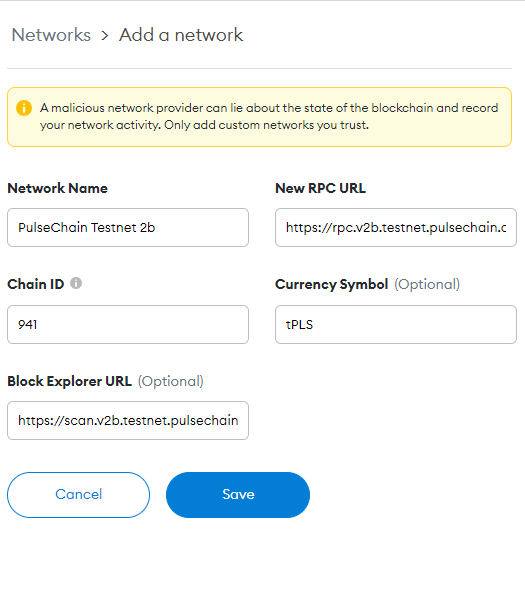
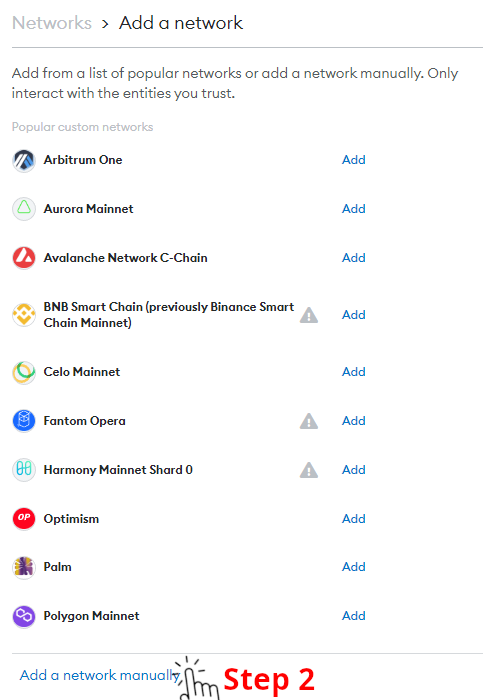
Update documentation for Testnet-V3

diff --git a/README.md b/README.md
@@ -1,4 +1,4 @@
-# PulseChain Testnet
+# PulseChain Testnet V3
 
 The PulseChain Testnet is up and running. This document will guide you through connecting Metamask to the network and bootstrapping a PulseChain node of your own.
 
@@ -6,78 +6,147 @@ The PulseChain Testnet is up and running. This document will guide you through c
 
 > **Disclaimer 2**: The state of this network may be reset on occasion, and nothing should be considered permanent after the fork block. We will communicate ahead of time when these resets are planned.
 
-### Version 2b
+### **Version 3** 🎉
 
-This version of the PulseChain Testnet brings the following enhancements:
-- ValidatorRotation functionality in the staking system contract has been optimized
-- Includes a **beta release** of the sacrifice credit allocations
-- Test run **beta release** of the AMM bot for rebalancing (UniswapV1, UniswapV2, and SushiSwap rebalanced)
+This iteration of PulseChain is an entirely new implementation and represents a hard departure from prior testnets. 
+
+The new implementation is based on Ethereum's POS model and implements an entirely new beacon chain while forking the Ethereum execution chain and state.
+> 💭 *Previous versions were based on the POSA (proof of staked authority) model.*
+
+**This version of the PulseChain Testnet brings the following enhancements:**
+-  A revamped consensus model based on Ethereum POS.
+- Decreased slot time compared with Ethereum `10s vs 12s (a ~17% speedup)`.
+- Validator reward burning (= more deflationary pressure).
+    + 25% fee burn + additional burn to compensate for reduced slot time.
+- **Multi-client support:**
+    + Consensus Clients: [Prysm-Pulse](https://gitlab.com/pulsechaincom/prysm-pulse) and [Lighthouse-Pulse](https://gitlab.com/pulsechaincom/lighthouse-pulse).
+    + Execution clients: [Go-Pulse](https://gitlab.com/pulsechaincom/go-pulse) and [Erigon-Pulse](https://gitlab.com/pulsechaincom/erigon-pulse).
+- Sacrifice credits have been written.
+- Ethereum Staker/Validator deposits have been refunded.
+- The AMM bot has been executed to rebalance various automated market-makers.
+
+## Exploring the PulseChain Testnet
+
+Public block and beacon explorers are available at the URLs below:
+
+- [PulseChain Block Explorer](https://scan.v3.testnet.pulsechain.com)
+- [PulseChain Beacon Explorer](https://beacon.v3.testnet.pulsechain.com)
+
+> The PulseChain team welcomes the development 3rd-party explorers!
 
 ## Connecting Metamask
 
 Follow these instructions to manually add the new Testnet to your Metamask plugin. A button will be available in the future to do this automatically.
 
-**1. Click the Networks dropdown and select "Custom Network"**
+**1. Click the Networks dropdown and select `Add network`** ([Screenshot](images/step1.png)).
 
-**2. Enter the following information and save (all values below are new):**
-- Network Name: `PulseChain Testnet 2b`
-- New RPC URL: `https://rpc.v2b.testnet.pulsechain.com`
-- Chain ID: `941`
+**2. At the bottom of the network list, click `Add a network manually`** ([Screenshot](images/step2.png)).
+
+**3. Enter the following information into the form and `save`:** ([Screenshot](images/step3.png)).
+- Network Name: `PulseChain Testnet-V3`
+- New RPC URL: `https://rpc.v3.testnet.pulsechain.com`
+- Chain ID: `942`
 - Currency Symbol: `tPLS`
-- Block Explorer URL: `https://scan.v2b.testnet.pulsechain.com`
+- Block explorer URL: `https://scan.v3.testnet.pulsechain.com`
 
-|   Step 1    |   Step 2    |
-| ----------- | ----------- |
-| ![Metamask step1](images/step1.png) | ![Metamask step2](images/step2.png) |
-
-**Congratulations**! You are now connected to the PulseChain Testnet. Existing ethereum accounts that had balances as of block `14,360,999` (*Mar-10-2022 07:29:19 PM +UTC*) will have the equivalent on balance on the PulseChain Testnet in addition to the **beta release** of credits awarded from the sacrifice phase.
+**Congratulations**! You are now connected to the PulseChain Testnet-V3. Existing ethereum accounts that had balances as of block `16,492,699` (*Jan-26-2023 06:11:35 PM +UTC*) will have the equivalent balance on the PulseChain Testnet in addition to the **beta release** of credits from the sacrifice phase as well as any ethereum staking deposit refunds.
 
 ## Getting tPLS to use on the PulseChain Testnet
 
 To get tPLS you can use the tPLS faucet.
 
-1. Navigate to the tPLS faucet https://faucet.v2b.testnet.pulsechain.com/
+1. Navigate to the tPLS faucet https://faucet.v3.testnet.pulsechain.com/
 2. Connect your Metamask wallet by clicking on the button.
 3. Enter the address you want to send tPLS to and click the `Request` button.
 4. Wait up to 60 seconds to receive your tPLS.
 
+## Advanced Users: Running a PulseChain Node
 
-## Connecting a PulseChain Node
+If you have an archive node running on Ethereum Mainnet or PulseChain Testnet-V2B, you can save some sync time by rolling back and re-using your existing blockchain DB. See [Using An Existing Blockchain DB](#experts-only-using-an-existing-blockchain-db) below.
 
-If you were previously running a Testnet V2 node, you can re-use your existing blockchain database by rolling back the blockchain. See [Using An Existing Blockchain DB](#using-an-existing-blockchain-db) below.
-
-> **Warning**: The PulseChain Testnet includes **all** of the Ethereum mainnet state up to block `14,360,999`. This means that the system requirements for running a node will be high, particularly the storage requirements. You should only run your own testnet node if needed for development purposes, etc...
+> **Warning**: The PulseChain Testnet includes **all** of the Ethereum mainnet state up to block `16,492,699`. This means that the system requirements for running a node will be high, particularly the storage requirements. You should only run your own testnet node if needed for development purposes, etc...
 
 HARDWARE
-- You will need at least **800 GB** of free storage to store the synchronized chain.
-- At least 4 cores and 8GB of RAM are recommended. 
+- A fast CPU with 4+ cores
+- 16 GB+ of RAM
+- 1 TB+ free storage (SSD) for a Full Node
+- 15 TB+ free storage (SSD) for an Archive Node
 
 SOFTWARE
 - [Docker](https://docs.docker.com/get-docker/) is recommended, and the commands below will tailored to running a dockerized node. By building and running the node in docker, we eliminate any environmental differences like the local golang version or the host OS.
 - If you prefer, you can compile and run the executable directly, but you will need to tweak the commands below.
 
 
-> **NOTE**: All commands below assume that you want to store all chain data in a local `/blockchain` directory (must have at least **800GB** free space).
+> **NOTE**: All commands below assume that you want to store all chain data in a local `/blockchain` directory (must have at least **1TB** free space).
 >
-> If needed, you can modify the commands to mount a different directory in the docker container. To do so, you will change the **absolute path** on the **left side** of the colon `:`, e.g., `docker run -v /path/to/my/dir:/blockchain ...`
+> If needed, you can modify the commands to mount a different directory in the docker container. To do so, you will change the **absolute path** on the **left side** of the colon `:`, e.g., `docker run -v /path/to/my/dir/:/blockchain ...`
 > 
 > For more information see the Docker [run command reference](https://docs.docker.com/engine/reference/commandline/run/#mount-volume--v---read-only).
 
 ### 1. Prepare the Blockchain Directory
 
-First, ensure that the intended blockchain datadir has at least 800GB of free space. The directory should be empty.
+First, ensure that the intended blockchain datadir has at least 1TB of free space. The directory should be empty.
 
-### 2. Start the Pulse Node
+### 2. Generate JWT Secret
 
-Once your blockchain directory is ready, you can start the node and connect to the network by providing the `--pulsechain-testnet` flag.
+The HTTP connection between your beacon node and execution node needs to be authenticated using a [JWT token](https://jwt.io/). We need to save this file in the blockchain directory, to be read by both clients. There are several ways to generate this JWT token:
 
+- Use a utility like OpenSSL to create the token via command: `openssl rand -hex 32 | tr -d "\n" > "/blockchain/jwt.hex"`.
+- Use an online generator like [this](https://seanwasere.com/generate-random-hex/). Copy and paste this value into a `/blockchain/jwt.hex` file.
+
+### 3. Start the PulseChain Execution Client
+
+Once your blockchain directory is ready, you can start the execution client and connect to the network by providing the `pulsechain-testnet` flag. You can run either Go-Pulse (recommended) **OR** Erigon-Pulse:
+
+Option 1: [Go-Pulse](https://gitlab.com/pulsechaincom/go-pulse)
 ```shell
-docker run -v /blockchain:/blockchain -P registry.gitlab.com/pulsechaincom/go-pulse --datadir=/blockchain --pulsechain-testnet
+docker run --network=host -v /blockchain:/blockchain registry.gitlab.com/pulsechaincom/go-pulse \
+--pulsechain-testnet \
+--authrpc.jwtsecret=/blockchain/jwt.hex \
+--datadir=/blockchain/execution
 ```
 
-## Using An Existing Blockchain DB
+Option 2: [Erigon-Pulse](https://gitlab.com/pulsechaincom/erigon-pulse)
+```shell
+docker run --network=host -v /blockchain:/blockchain registry.gitlab.com/pulsechaincom/erigon-pulse \
+--chain=pulsechain-testnet \
+--authrpc.jwtsecret=/blockchain/jwt.hex \
+--datadir=/blockchain/execution \
+--externalcl
+```
 
-> **Warning**: This is only valid for nodes that were sync'd with a previous version of the **PulseChain Testnet** or the **Ethereum Mainnet** past block `13,224,745`.
+> Do not Erigon's internal consensus layer at this time, passing `--externalcl` (shown above) disables this experimental feature.
+
+### 4. Start the PulseChain Consensus Client
+
+Once your execution client is running, you can start the consensus client and connect to the network by providing the `pulsechain-testnet` flag. You can run either Prysm-Pulse (recommended) **OR** Lighthouse-Pulse:
+
+Option 1: [Prysm-Pulse](https://gitlab.com/pulsechaincom/prysm-pulse)
+```shell
+docker run --network=host -v /blockchain:/blockchain registry.gitlab.com/pulsechaincom/prysm-pulse \
+--pulsechain-testnet \
+--jwt-secret=/blockchain/jwt.hex \
+--datadir=/blockchain/consensus \
+--checkpoint-sync-url=https://checkpoint.v3.testnet.pulsechain.com \
+--genesis-beacon-api-url=https://checkpoint.v3.testnet.pulsechain.com
+```
+
+Option 2: [Lighthouse-Pulse](https://gitlab.com/pulsechaincom/lighthouse-pulse)
+```shell
+docker run --network=host -v /blockchain:/blockchain registry.gitlab.com/pulsechaincom/lighthouse-pulse \
+--network=pulsechain-testnet \
+--execution-jwt=/blockchain/jwt.hex \
+--datadir=/blockchain/consensus \
+--execution-endpoint=http://localhost:8551 \
+--checkpoint-sync-url https://checkpoint.v3.testnet.pulsechain.com \
+--http 
+```
+
+## Experts Only: Using An Existing Blockchain DB
+
+> **Warning**: This is only valid for **archive nodes** that were sync'd with a previous version of the **PulseChain Testnet** or the **Ethereum Mainnet**.
+
+> We will only reuse an existing execution-layer database since PulseChain starts with a new Beacon chain.
 
 ### 1. Stop the Existing Blockchain
 
@@ -95,7 +164,11 @@ Confirm that the `genesis.json` file has been written to your blockchain datadir
 
 ### 3. Perform Rollback
 
-In order to rollback the chain, we need to launch the geth console to issue the `debug.setHead("0xC9CB29")` command. It's important to run with the `--nodiscover` flag to prevent the node from syncing any new blocks during this process.
+We will need to rollback to **the last ethereum mainnet block in your DB less than `16,492,700`.
+- If running an Ethereum Mainnet node, you can rollback to `16492699` (`0xFBA89B`)
+- If running a PulseChain Testnet-V2B node, you will need to rollback further to `14360999` (`0xDB21A7`)
+
+In order to rollback the chain, we need to launch the geth console to issue the `debug.setHead()` command. It's important to run with the `--nodiscover` flag to prevent the node from syncing any new blocks during this process.
 
 ```shell
 docker run -it registry.gitlab.com/pulsechaincom/go-pulse --pulsechain-testnet --nodiscover console
@@ -103,20 +176,19 @@ docker run -it registry.gitlab.com/pulsechaincom/go-pulse --pulsechain-testnet -
 
 **From the interactive console, verify chain state and perform the rollback:**
 
-1. Verify the current block number is above `13,224,745`
+1. Perform the chain rollback to block the block number shown above:
     ```shell
-    > eth.blockNumber
+    # for eth mainnet archive
+    > debug.setHead("0xFBA89B")
+
+    # for pulsechain-testnet-v2b archive
+    > debug.setHead("0xDB21A7")
     ```
 
-2. Perform the chain rollback to block `13,224,745`
-    ```shell
-    > debug.setHead("0xC9CB29")
-    ```
-
-3. Verify the current block number is now `13,224,745` or lower
+3. Verify the block number has been updated
     ```shell
     > eth.blockNumber
-    13224745
+    16492699
     ```
 
 3. Exit the geth console
@@ -126,77 +198,20 @@ docker run -it registry.gitlab.com/pulsechaincom/go-pulse --pulsechain-testnet -
 
 ### 4. Re-Initialize Genesis w/ Updated Chain Config
 
-With the blockchain rolled back to the last ethereum mainnet block, you can now reinitialize the genesis for Testnet V2b, using the `genesis.json` file you dumped in step 2.
+With the blockchain rolled back to the last ethereum mainnet block, you can now reinitialize the genesis for Testnet V3, using the `genesis.json` file you dumped in step 2.
 
 ```shell
 docker run -v /blockchain:/blockchain registry.gitlab.com/pulsechaincom/go-pulse --datadir=/blockchain init /blockchain/genesis.json
 ```
 
-After the init command has completed, you can follow the normal steps above to [Start the Pulse Node](#2-start-the-pulse-node) and begin syncing from the fork block.
+After the init command has completed, you can follow the normal steps above to [Advanced Users: Running a PulseChain Node](#advanced-users-running-a-pulsechain-node).
+- You will use the existing execution directory for your execution node only.
+- It's recommended to move the execution db data into a subdirectory such as `/blockchain/execution`.
 
-# Validator Registration, Rotation, and Staking
+# Staking and Running a Validator
 
-PulseChain validator registration, staking, rotation, and revenue share are managed via system contracts that can be interacted with through the [PulseChain validator & staking ui](https://stake.v2b.testnet.pulsechain.com/).
+Running a Validator is a **responsibility** to keep your node healthy and running, or your deposited funds will be at risk. A `32 million tPLS` deposit will be required to register a validator.
 
-> The staking UI will require that you have Metamask configured and connected to the PulseChain Testnet. See steps above for connecting Metamask.
+If you are interested in running a Validator for the PulseChain Testnet-V3 head over to our [Staking Launchpad](https://launchpad.v3.testnet.pulsechain.com).
 
-From the staking UI, users can:
-- View information about the network validators: their total rewards, % revenue share, number of misdemeanors & felonies.
-- Delegate stake to registered validators.
-- Remove stake from registered validators.
-- Register new validators.
-
-## Validator Rotation
-
-PulseChain validators are rotated at the end of each era, on a targeted ~24-hour basis, every `28,800 blocks`. On these blocks, several operations will occur:
-1. Validators already in rotation for the past era will be rewarded transaction fees for blocks they produced throughout the era.
-    + Earned fees are paid proportionally to the validator's stakers, based on the validator's revenue share percentage.
-      > For example, if the validator has 50% revenue share, and two stakers exist with 2 and 3 tPLS delegated, then the stakers will receive 20% and 30% of the validator's rewards respectively, with the remaining 50% going directly to the validator.
-2. Registered validators will be ranked by their total delegated stake.
-3. The top **33 validators** will be selected as the authorized set of validators for the next era.
-
-## Validator Staking
-
-Users can delegate their tPLS to registered validators, earning a portion of the validator's rewards if the validator is selected for rotation. Stakers have a responsibility to delegate stake to high-performing and reliable nodes that will service the network well, and users should make informed decisions when staking. 
-
-**Considerations when choosing validators for staking:**
-1. The total stake: only the top 33 validators by total stake will be brought into rotation, and only validators in rotation will earn rewards for themselves and their stakers. Additionally, staker revenue is paid out proportionally based on your share of the total stake.
-2. The number of misdemeanors & felonies represents the historical offenses/slashes that have been given to the validator for lack of uptime or bad behavior. Misdemeanor and felonies result in loss of rewards (but not principal) for the validator and its stakers.
-3. The total rewards is the total amount of revenue earned by the validator over time, including revenue shared with its stakers.
-
-> Pay attention to the user interface when adding stakes, it will show your projected stake and projected revenue share. Your projected revenue share is based on the validator's revenue share * your portion of the total stake delegated to that validator.
-
-| Add Stake | Remove Stake | 
-| --------- | ------------ |
-| ![Add Stake](images/add-stake.png) | ![Remove Stake](images/remove-stake.png) |
-
-**Staking rules:**
-1. Stakes added to validators already in rotation will be considered "Pending" until the end of the current era (validator rotation). 
-    - This means that for any given era the validator is in rotation, only the stakes that contributed to the validator being selected (staked before rotation) will be considered during revenue share.
-2. Users can only remove stake from a validator after 24 hours.
-3. You can add to or remove from existing stakes, and it is also possible to remove just a portion of the total stake.
-
-## Validator Registration
-
-Running a validator node performs an important role for the PulseChain network, and the performance of the network depends on the performance of its underlying validators.
-
-**Users should not consider running a validator node unless you have experience running a full blockchain node with high availability!**
-
-> **Before Registering:** You should have the validator node running and fully synchronized with the network so that the moment the validator is brought into rotation it is ready to sign blocks for the network.
->
-> ***Once again: only register a validator if you are fully committed to maintaining its availability and uptime - THIS IS NOT FOR MOST USERS!***
-
-With the above caveats understood, you can register the validator through the [PulseChain validator & staking ui](https://stake.v2b.testnet.pulsechain.com/). Steps for doing so include:
-
-1. Making a **non-refundable deposit of 500,000 tPLS** to the staking contract from the validator address. This serves to prevent spam registrations.
-> **About the Deposit:** This is intentionally high during the Testnet phase to limit the number of 3rd party validators and ensure network availability and performance. If you have serious intentions of running a high-availability validator for testnet, please reach out to the PulseChain team via Telegram, and we can assist with funding via the Testnet treasury account.
-
-2. Register the new validator with the following options:
-    - Fee Address (Optional): If provided, rewards earned by the validator will be sent to the fee address. If not provided, the fees are paid directly to the validator address.
-    - Revenue Share: The percent of revenue that will be paid out to users with stake delegated to this validator.
-        + Considerations: higher revenue share encourages more stakers, lower revenue share captures a higher share of profits for the validator.
-
-### Unregister a Validator
-
-Validators looking to cease operation can un-register themselves via the same [PulseChain validator & staking ui](https://stake.v2b.testnet.pulsechain.com/). An un-registered validator will be removed from the validator pool at the next validator rotation.
-> A validator can be re-registered without requiring a new deposit.
+> At this time, there is no ability to deregister and un-stake. We are following upstream progress and will be bringing the feature to PulseChain soon.
